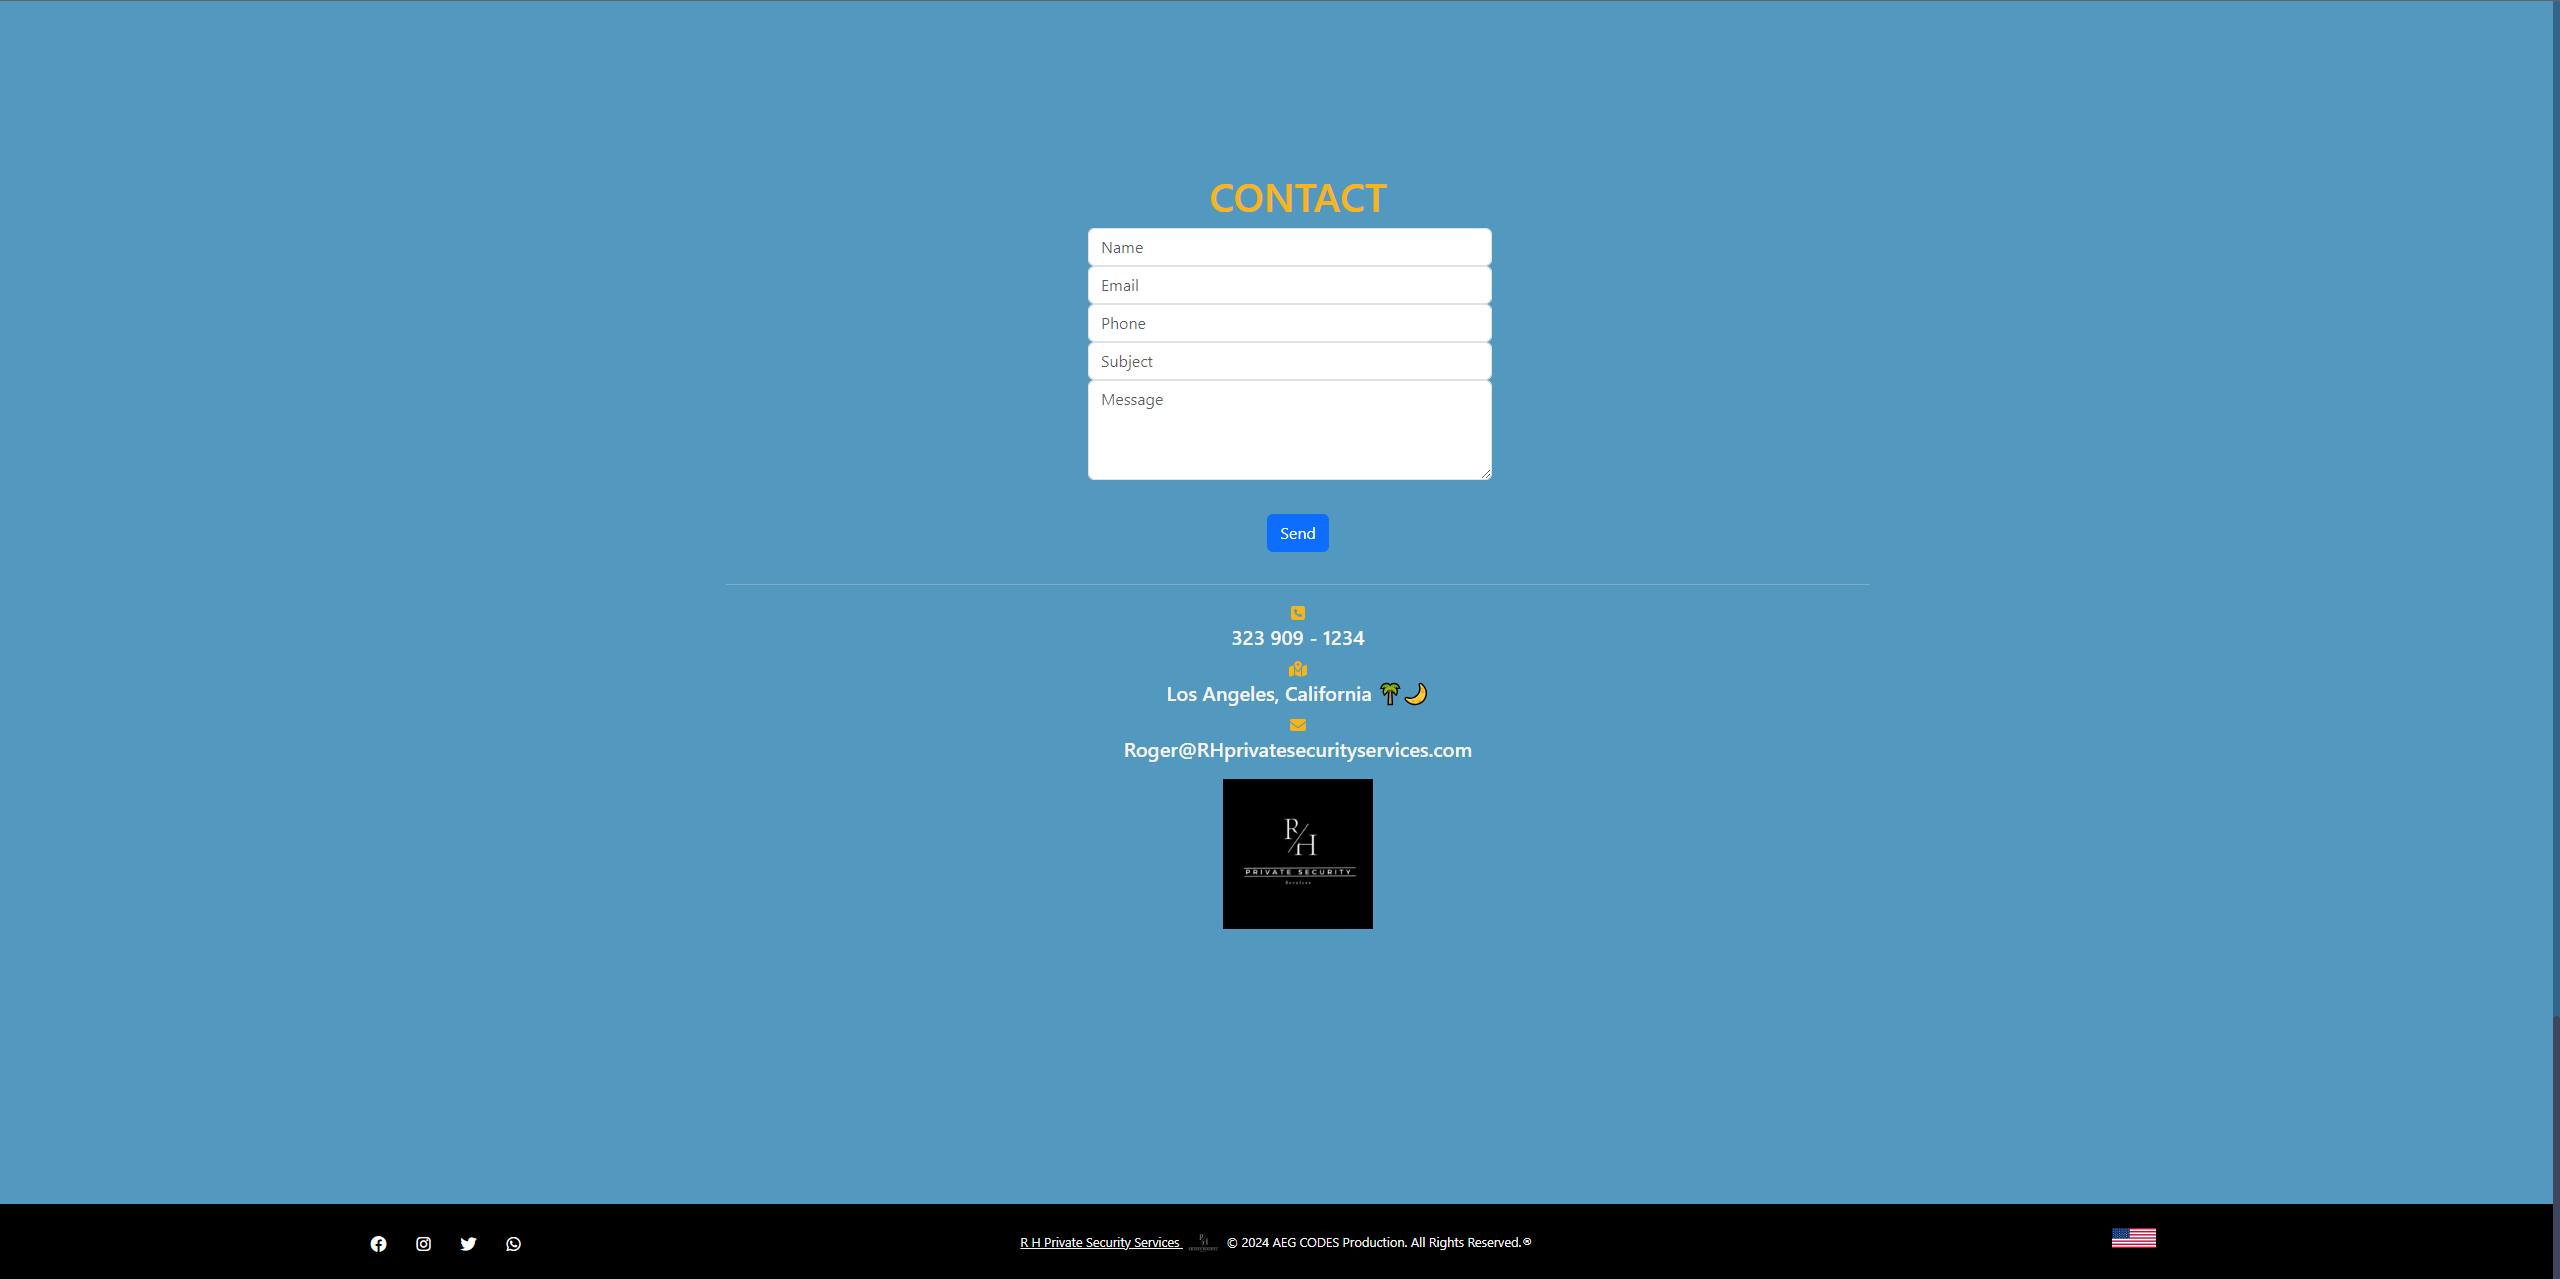
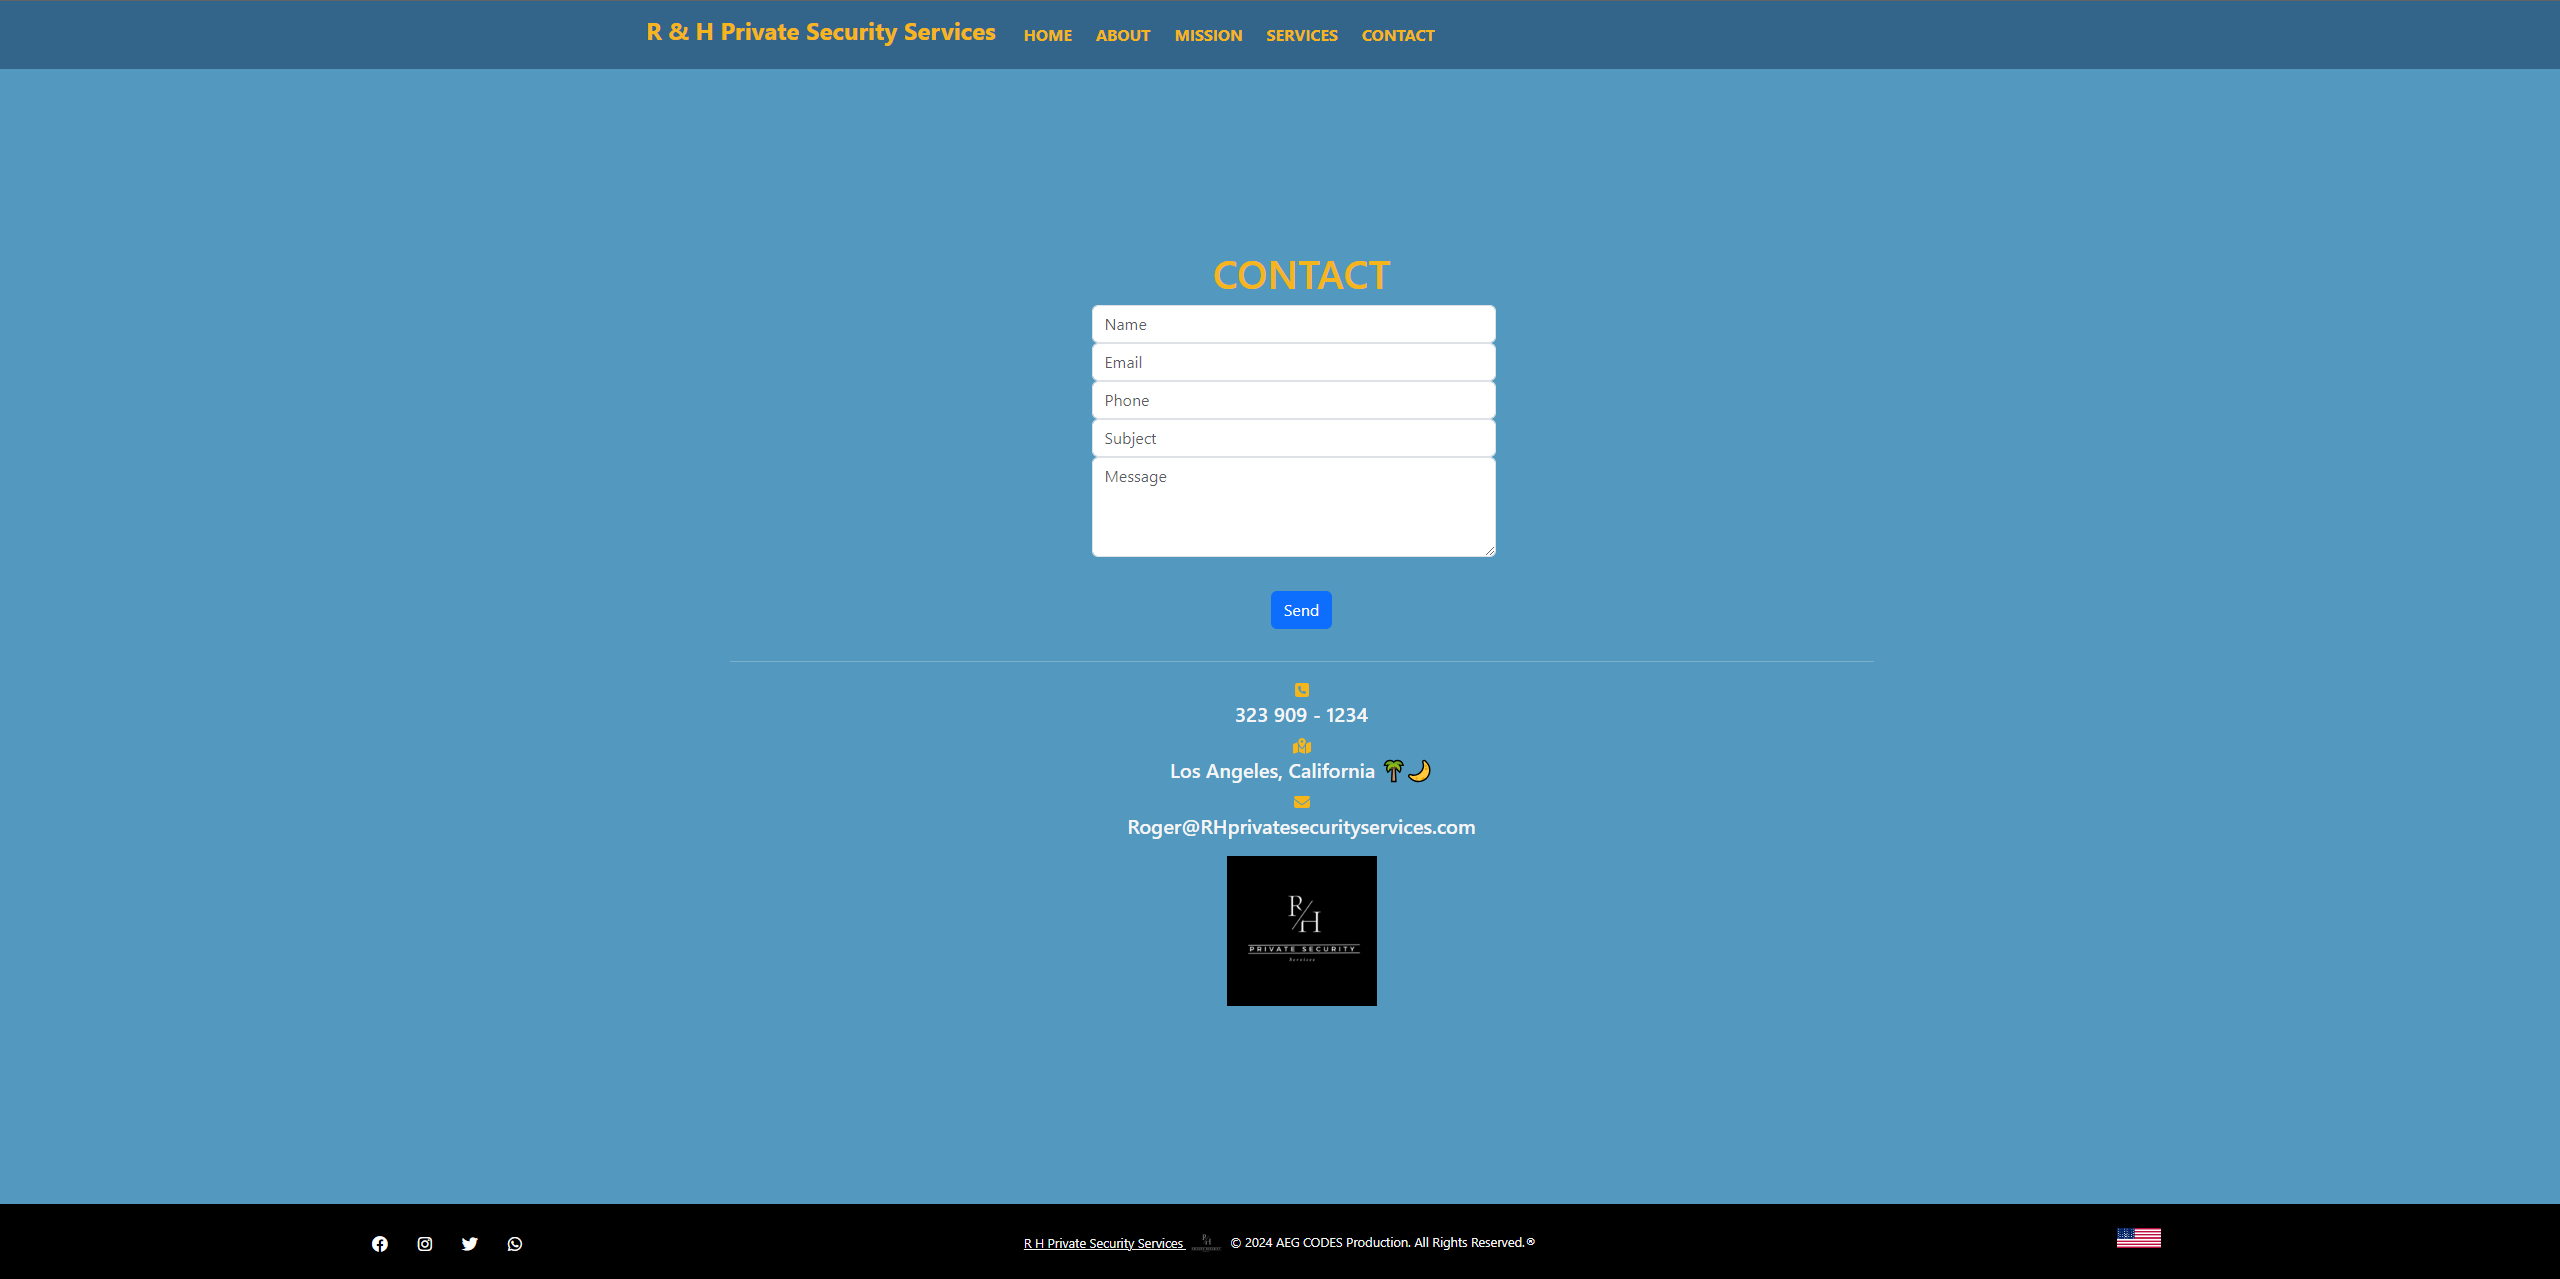
Working Draft Edits

diff --git a/README.md b/README.md
@@ -114,15 +114,15 @@ After this you can run the project locally:
 
 ## Screenshots 
 
-<img src="./client//public/Images/rhprivatesecurityservicesHome1920.png">
+<img src="./client/public/Images/rhprivatesecurityservicesHome1920.png">
 
-<img src="./client//public/Images/rhprivatesecurityservicesAbout1920.png">
+<img src="./client/public/Images/rhprivatesecurityservicesAbout1920.png">
 
-<img src="./c/public/Images/rhprivatesecurityservicesMission1920.png">
+<img src="./client/public/Images/rhprivatesecurityservicesMission1920.png">
 
-<img src="./client//public/Images/rhprivatesecurityservicesServices1920.png">
+<img src="./client/public/Images/rhprivatesecurityservicesServices1920.png">
 
-<img src="./client//public/Images/rhprivatesecurityservicesContact1920.png">
+<img src="./client/public/Images/rhprivatesecurityservicesContactWfooter1920.png">
 
 
 <br />
